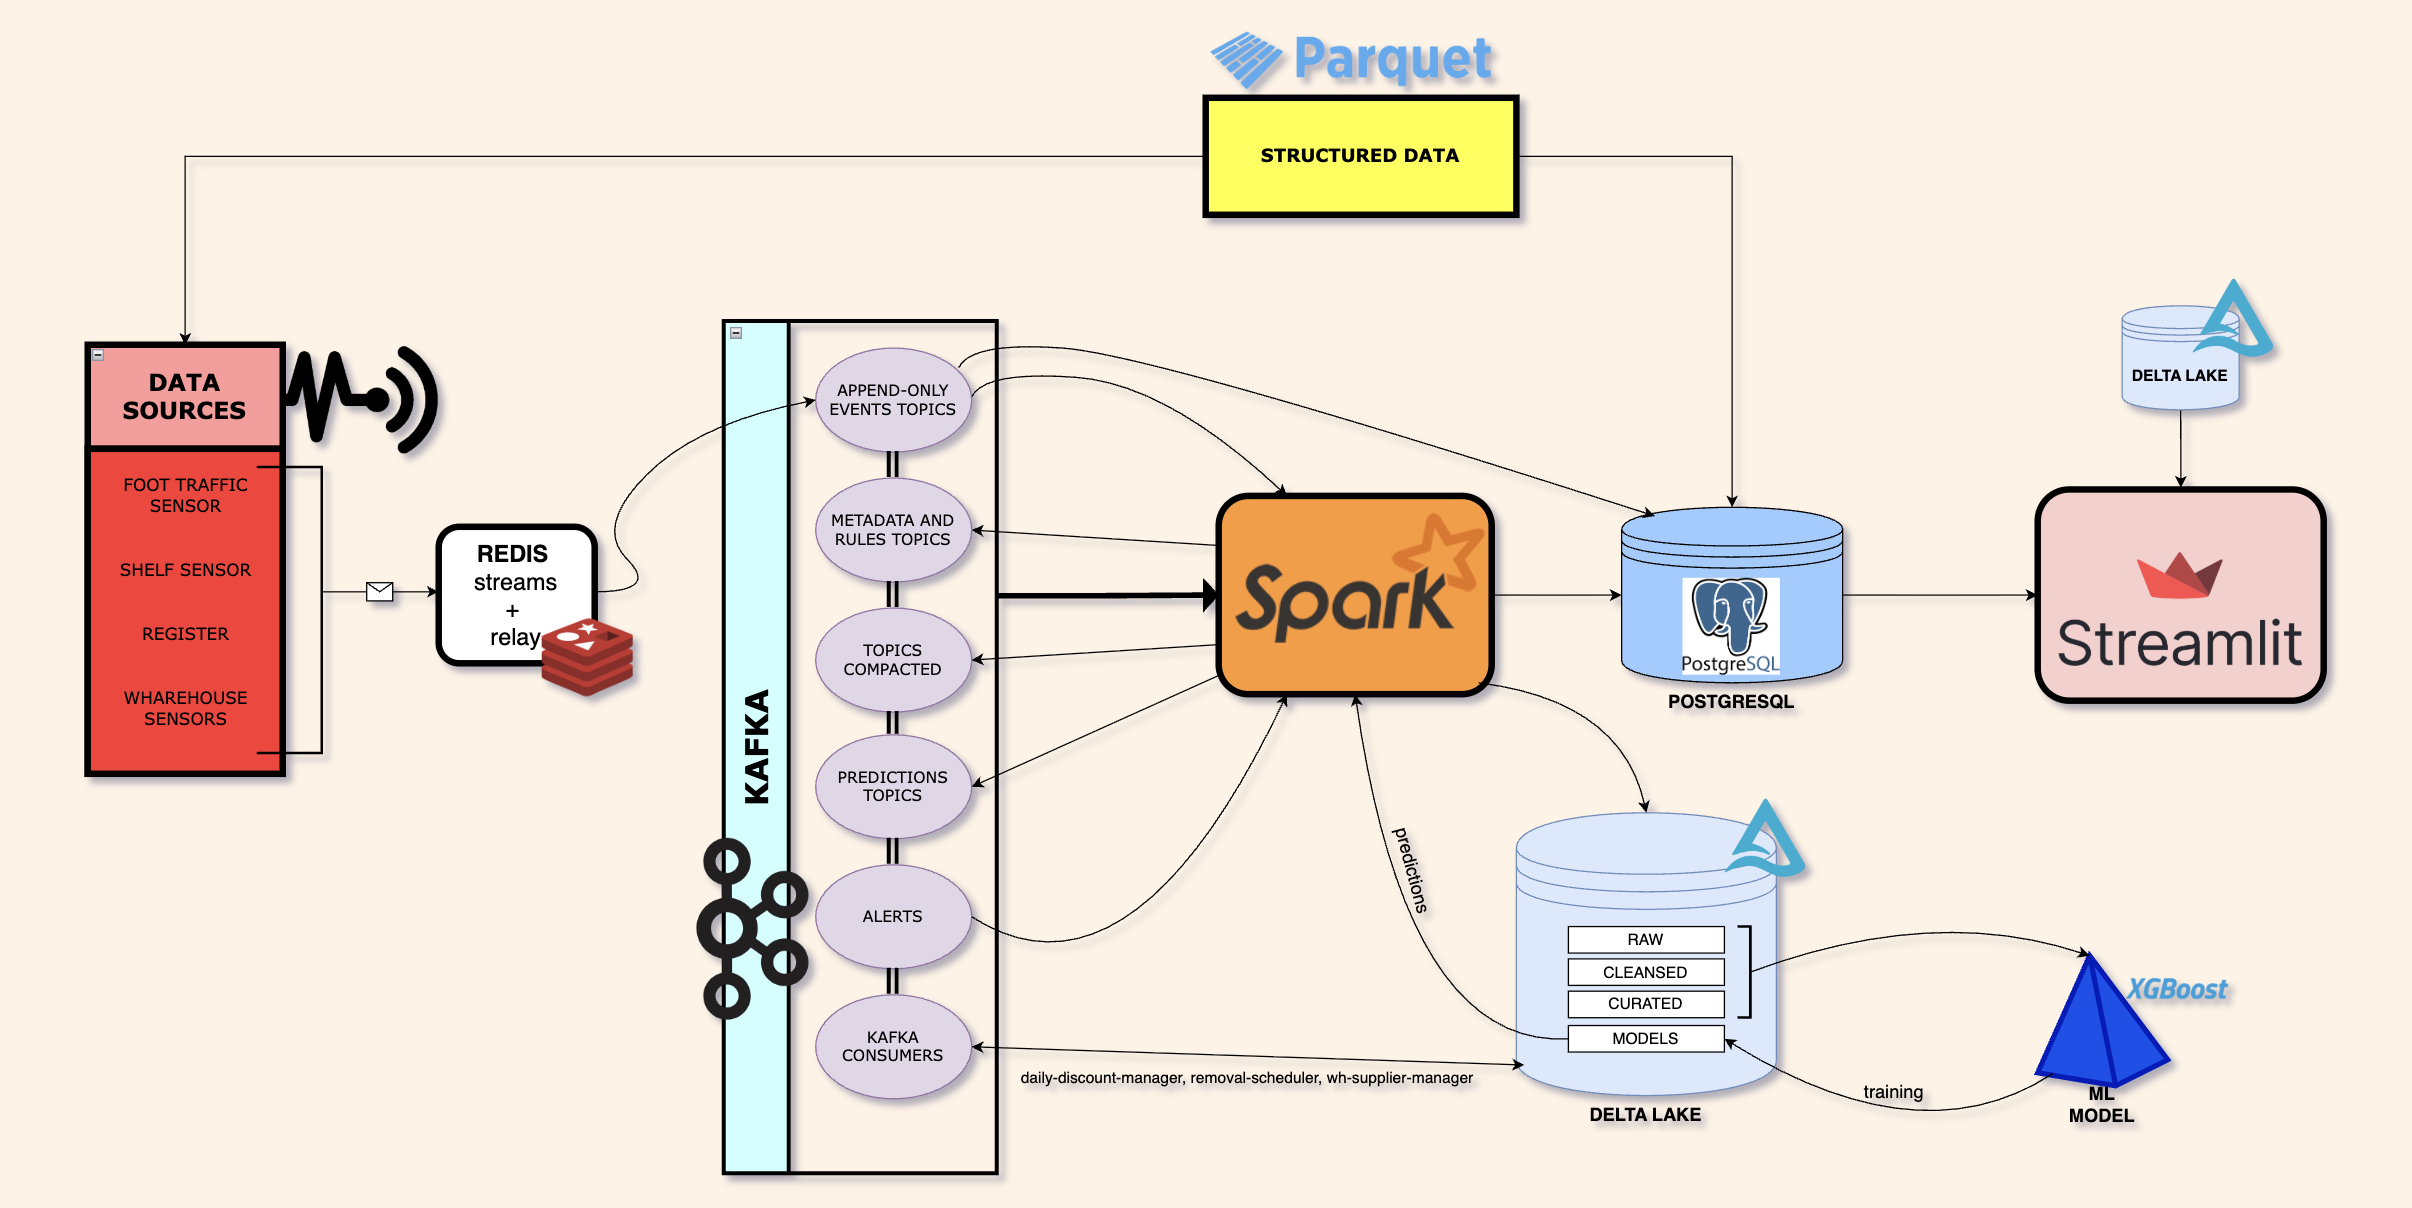
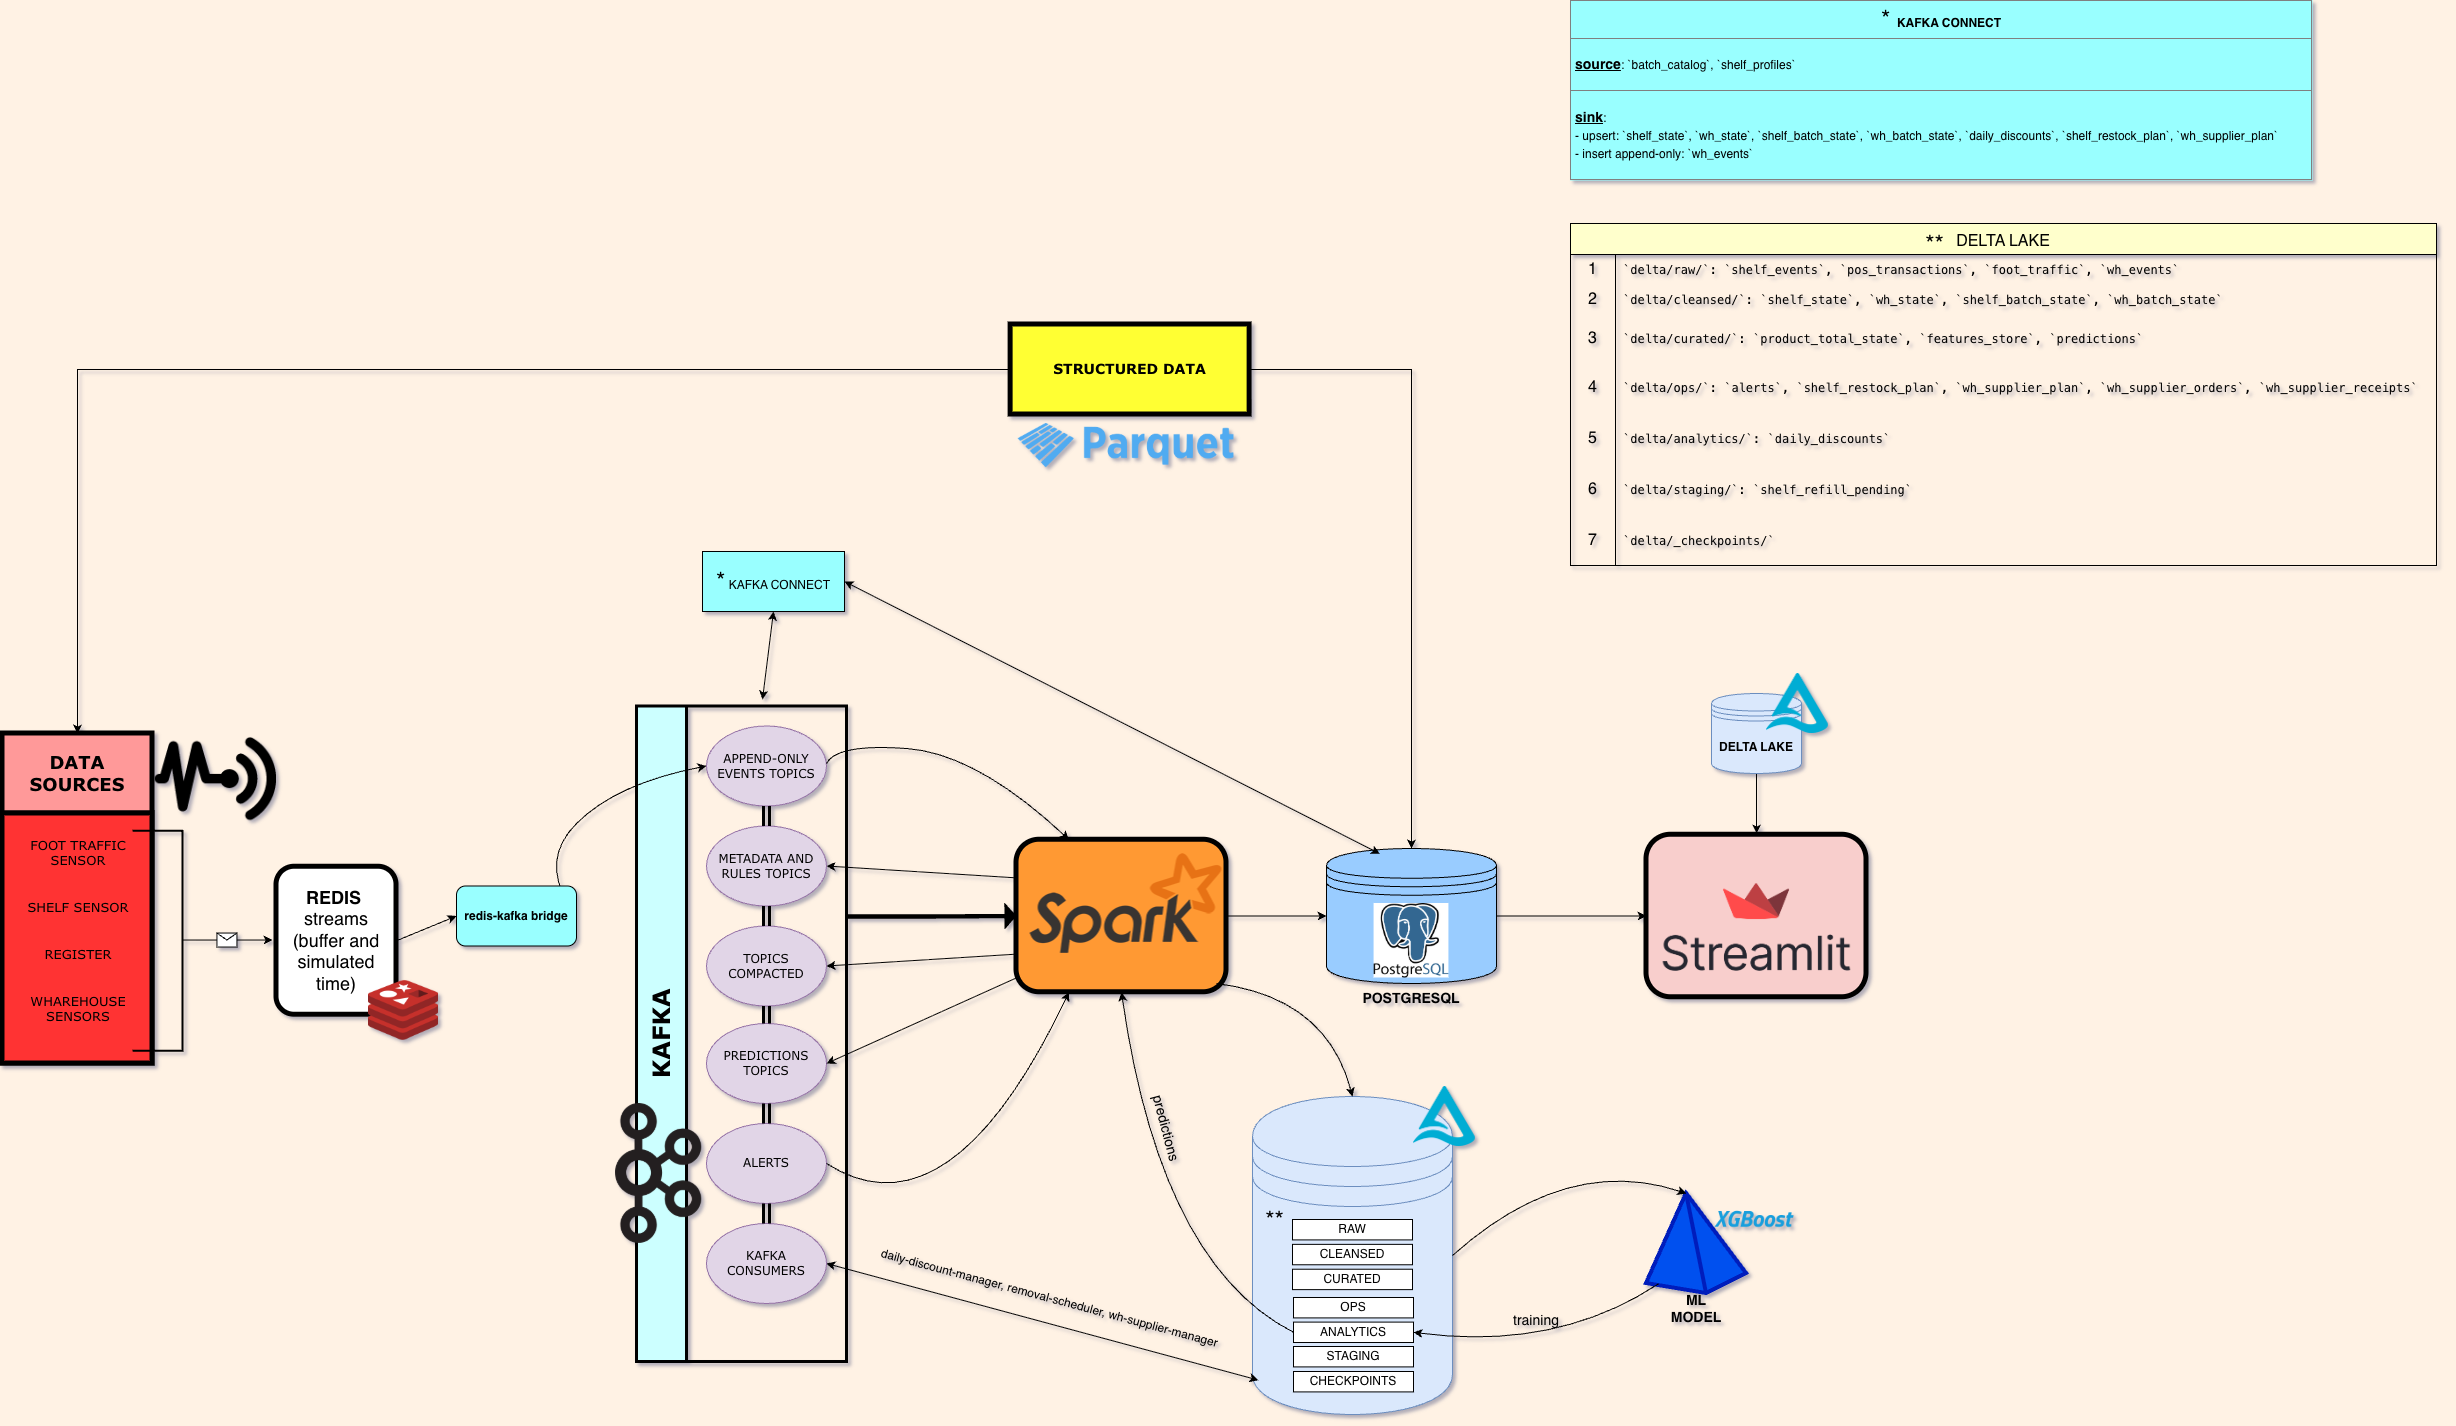
Update data_pipeline and dataflow images

diff --git a/delta/README.md b/delta/README.md
@@ -18,8 +18,65 @@ empty in git and gets populated at runtime (or by the bootstrap job
   - `daily_discounts`
 - `delta/staging/`: transient handoff tables (created by jobs).
   - `shelf_refill_pending`
-- `delta/models/warehouse_optimizer/`: model artifacts (created by jobs).
+- `delta/models/warehouse_optimizer/`: placeholder directory (created by bootstrap).
 - `delta/_checkpoints/`: Structured Streaming checkpoints (created by jobs).
+
+## Dataflow between levels (what writes what)
+
+This repo uses **Kafka topics as the primary streaming contract** (append-only topics for events, compacted topics for latest state). Delta is used as a **durable mirror** of raw events + derived tables, and as a place where some components read state in batch form.
+
+### 0) Bootstrap
+
+The `spark-init-delta` service initializes empty Delta tables (schemas + folders):
+- creates `raw/`, `cleansed/`, `curated/`, `ops/` tables used by the pipeline.
+- creates some folders like `models/warehouse_optimizer/`.
+
+### 1) RAW (Kafka events → Delta append-only)
+
+These tables are append-only mirrors of Kafka event streams:
+- `raw/shelf_events` written by `spark-apps/shelf-aggregator/`
+- `raw/pos_transactions` written by `spark-apps/batch-state-updater/`
+- `raw/foot_traffic` written by `spark-apps/foot-traffic-raw-sink/`
+- `raw/wh_events` written by `spark-apps/wh-aggregator/`
+  - optionally also appended by `kafka-components/wh-supplier-manager/` if `MIRROR_WH_EVENTS_DELTA=1` (usually keep it off to avoid multiple writers)
+
+### 2) CLEANSED (state builders → normalized state tables)
+
+These tables are the “latest truth” state, built from the event streams:
+- `cleansed/shelf_state` built by `spark-apps/shelf-aggregator/` (consumes Kafka `shelf_events`)
+- `cleansed/wh_state` built by `spark-apps/wh-aggregator/` (consumes Kafka `wh_events`)
+- `cleansed/shelf_batch_state` built by:
+  - `spark-apps/batch-state-updater/` (sales decrement from Kafka `pos_transactions`)
+  - `spark-apps/wh-batch-state-updater/` (store-lot increments on `wh_out` from Kafka `wh_events`)
+- `cleansed/wh_batch_state` built by `spark-apps/wh-batch-state-updater/` (from Kafka `wh_events`)
+
+### 3) OPS (CLEANSED → operational decisions + ledgers)
+
+Operational outputs are derived from state and then fed back into the event loop:
+- `ops/alerts` written by:
+  - `spark-apps/shelf-alert-engine/` and `spark-apps/wh-alert-engine/` (also publish `alerts` to Kafka)
+  - `spark-apps/alerts-sink/` mirrors Kafka `alerts` into Delta
+- `ops/shelf_restock_plan` written by `spark-apps/shelf-alert-engine/` (also publishes compacted Kafka `shelf_restock_plan`)
+  - status updates written by `spark-apps/shelf-restock-manager/`
+- `ops/wh_supplier_plan` written by:
+  - `spark-apps/wh-alert-engine/` (rule-based plan + Kafka compacted `wh_supplier_plan`)
+  - `ml-model/inference-service/` (ML-based pending plans)
+- `ops/wh_supplier_orders`, `ops/wh_supplier_receipts` written by `kafka-components/wh-supplier-manager/`
+
+### 4) ANALYTICS (CLEANSED → analytics outputs)
+
+- `analytics/daily_discounts` written by `kafka-components/daily-discount-manager/`
+  - reads `cleansed/shelf_batch_state` to find near-expiry inventory.
+
+### 5) CURATED (features/predictions)
+
+- `curated/features_store` written by `kafka-components/shelf-daily-features/` (daily snapshot).
+- `curated/predictions` written by `ml-model/inference-service/` (prediction logs).
+- `curated/product_total_state` is currently bootstrapped but not populated by a dedicated job in this repo.
+
+### 6) STAGING (temporary handoff)
+
+- `staging/shelf_refill_pending` written/read by `spark-apps/shelf-refill-bridge/` to delay shelf refill effects.
 
 ## Bootstrap
 The Docker service `spark-init-delta` runs

diff --git a/README.md b/README.md
@@ -99,7 +99,7 @@ End-to-end (simulated) system to **monitor stock and batches** for a supermarket
 │   ├── warehouse_batches.parquet
 │   ├── all_discounts.parquet
 │   ├── sim_out/                       # Generated simulation outputs                 
-├── delta/                             # Local Delta Lake (raw/cleansed/ops/analytics + checkpoint)
+├── delta/                             # Local Delta Lake (raw/cleansed/curated/ops/analytics + staging + _checkpoints)
 ├── dashboard/                         # Streamlit dashboard (map, alerts, state, ML)
 │   ├── app.py
 │   ├── store_layout.yaml
@@ -392,10 +392,13 @@ Created by `kafka-components/kafka-init/init.py`.
 
 ### Delta Lake layout (main paths)
 
-- `delta/raw/`: `foot_traffic`, `shelf_events`, `wh_events`
-- `delta/cleansed/`: `shelf_state`, `shelf_batch_state`, `wh_state`, `wh_batch_state`
+- `delta/raw/`: `shelf_events`, `pos_transactions`, `foot_traffic`, `wh_events`
+- `delta/cleansed/`: `shelf_state`, `wh_state`, `shelf_batch_state`, `wh_batch_state`
+- `delta/curated/`: `product_total_state`, `features_store`, `predictions`
 - `delta/ops/`: `alerts`, `shelf_restock_plan`, `wh_supplier_plan`, `wh_supplier_orders`, `wh_supplier_receipts`
 - `delta/analytics/`: `daily_discounts`
+- `delta/staging/`: `shelf_refill_pending`
+- `delta/_checkpoints/`: Spark Structured Streaming checkpoints
 
 ---
 
